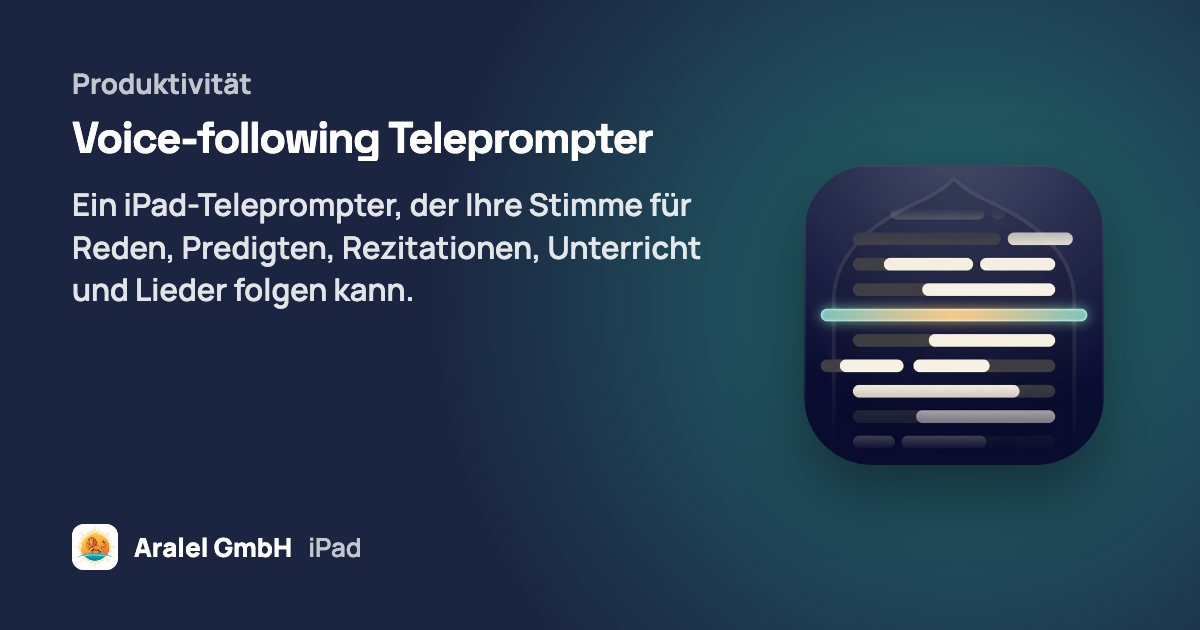
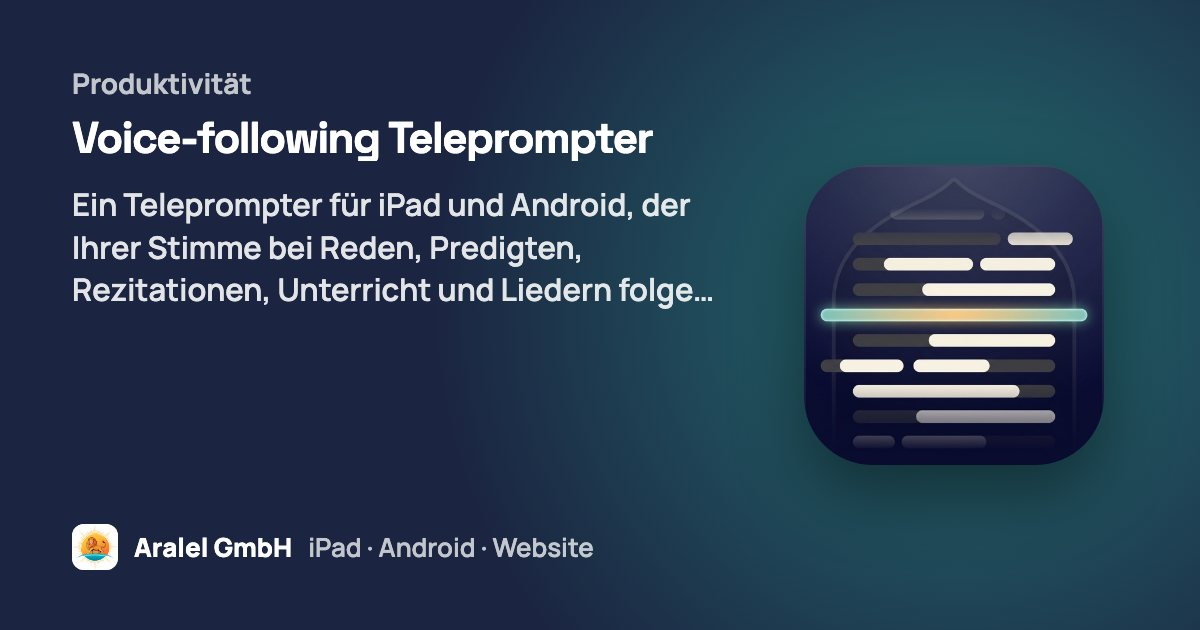
feat: add Android support for Voice-following Teleprompter, update localization and news entries

Changed region(s): [[0.0617, 0.3016, 0.5858, 0.4825], [0.3083, 0.8444, 0.4933, 0.9048]]

diff --git a/PLAN.md b/PLAN.md
@@ -2,6 +2,16 @@
 
 Running log of prompts given to Claude in this repo and what was done in response. Newest entries first.
 
+## 2026-11-07
+
+**Prompt:** "teleprompter is published in android too https://play.google.com/store/apps/details?id=com.aralel.teleprompter"
+
+**Done:** Voice-following Teleprompter gets the `android` platform and the Google Play link in `_data/products.json`, the Play store name in `store_listings.json`, DE/EN copy reworded from iPad-only to iPad and Android (using the Play listing), a news item, and regenerated share images. Build and `check-site.mjs` (source and `_site`) pass; the Play link renders on both product pages and the Android page. Logged under `[0.23.2]`.
+
+**Prompt:** "there is also a web version http://teleprompter.aralel.com/"
+
+**Done:** added `websiteUrl` (https) and the `website` platform, a DE/EN paragraph on the web editor, library and browser prompter, web in the availability text and news item, "no account" limited to the app (the web has optional sign-in), share images regenerated. Build and both `check-site.mjs` runs pass; the link renders on the product pages and the Websites page. Also logged under `[0.23.2]`.
+
 ## 2026-11-02
 
 **Prompt:** "use https://testflight.apple.com/join/e3fAwRU6 for arta text"
